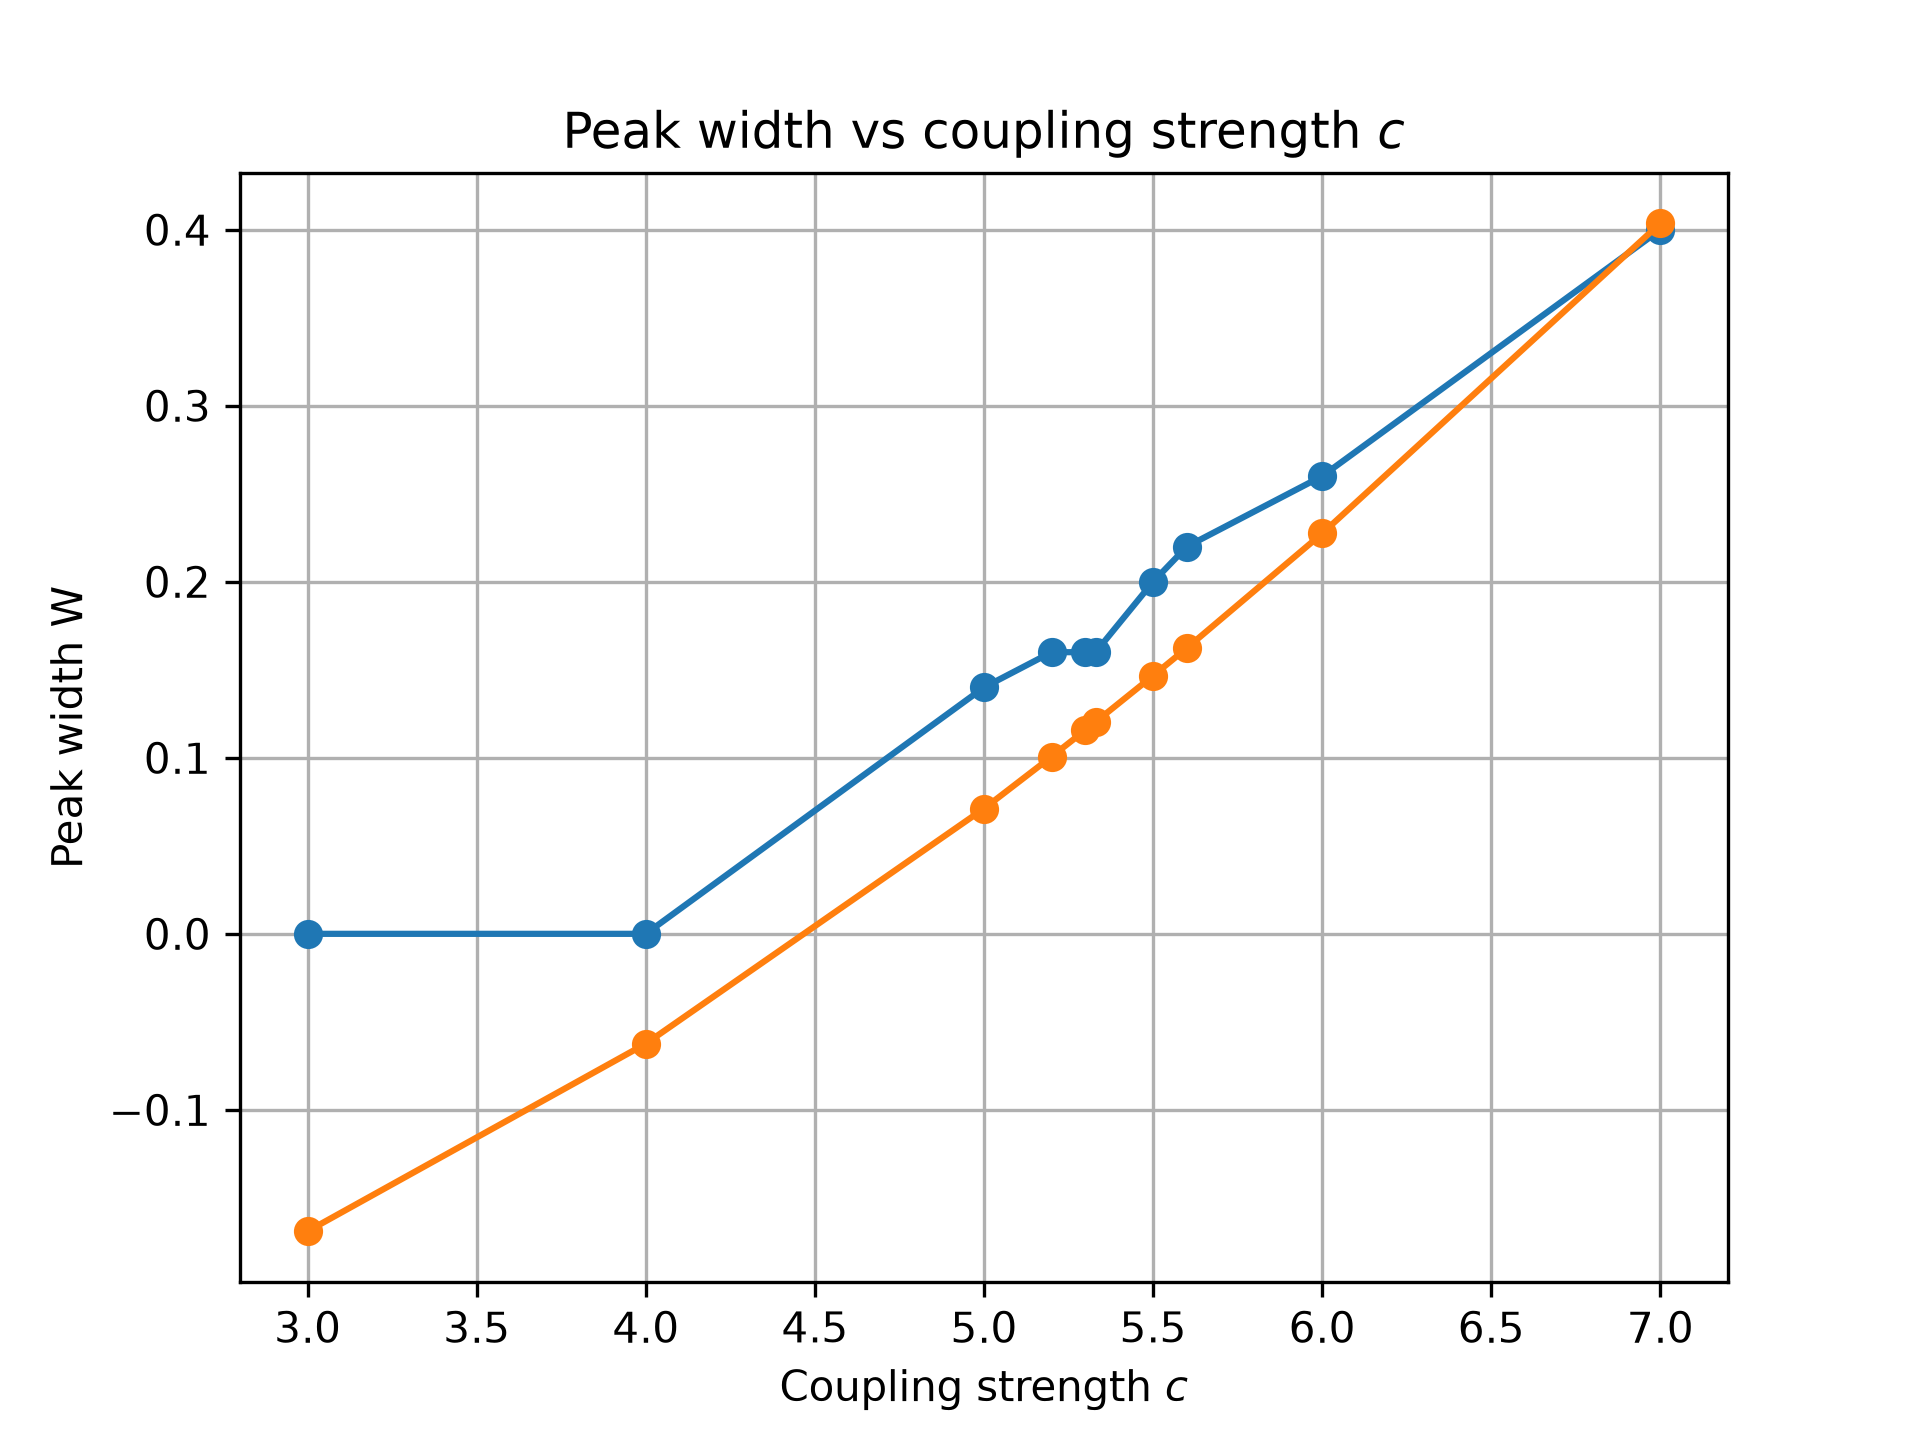
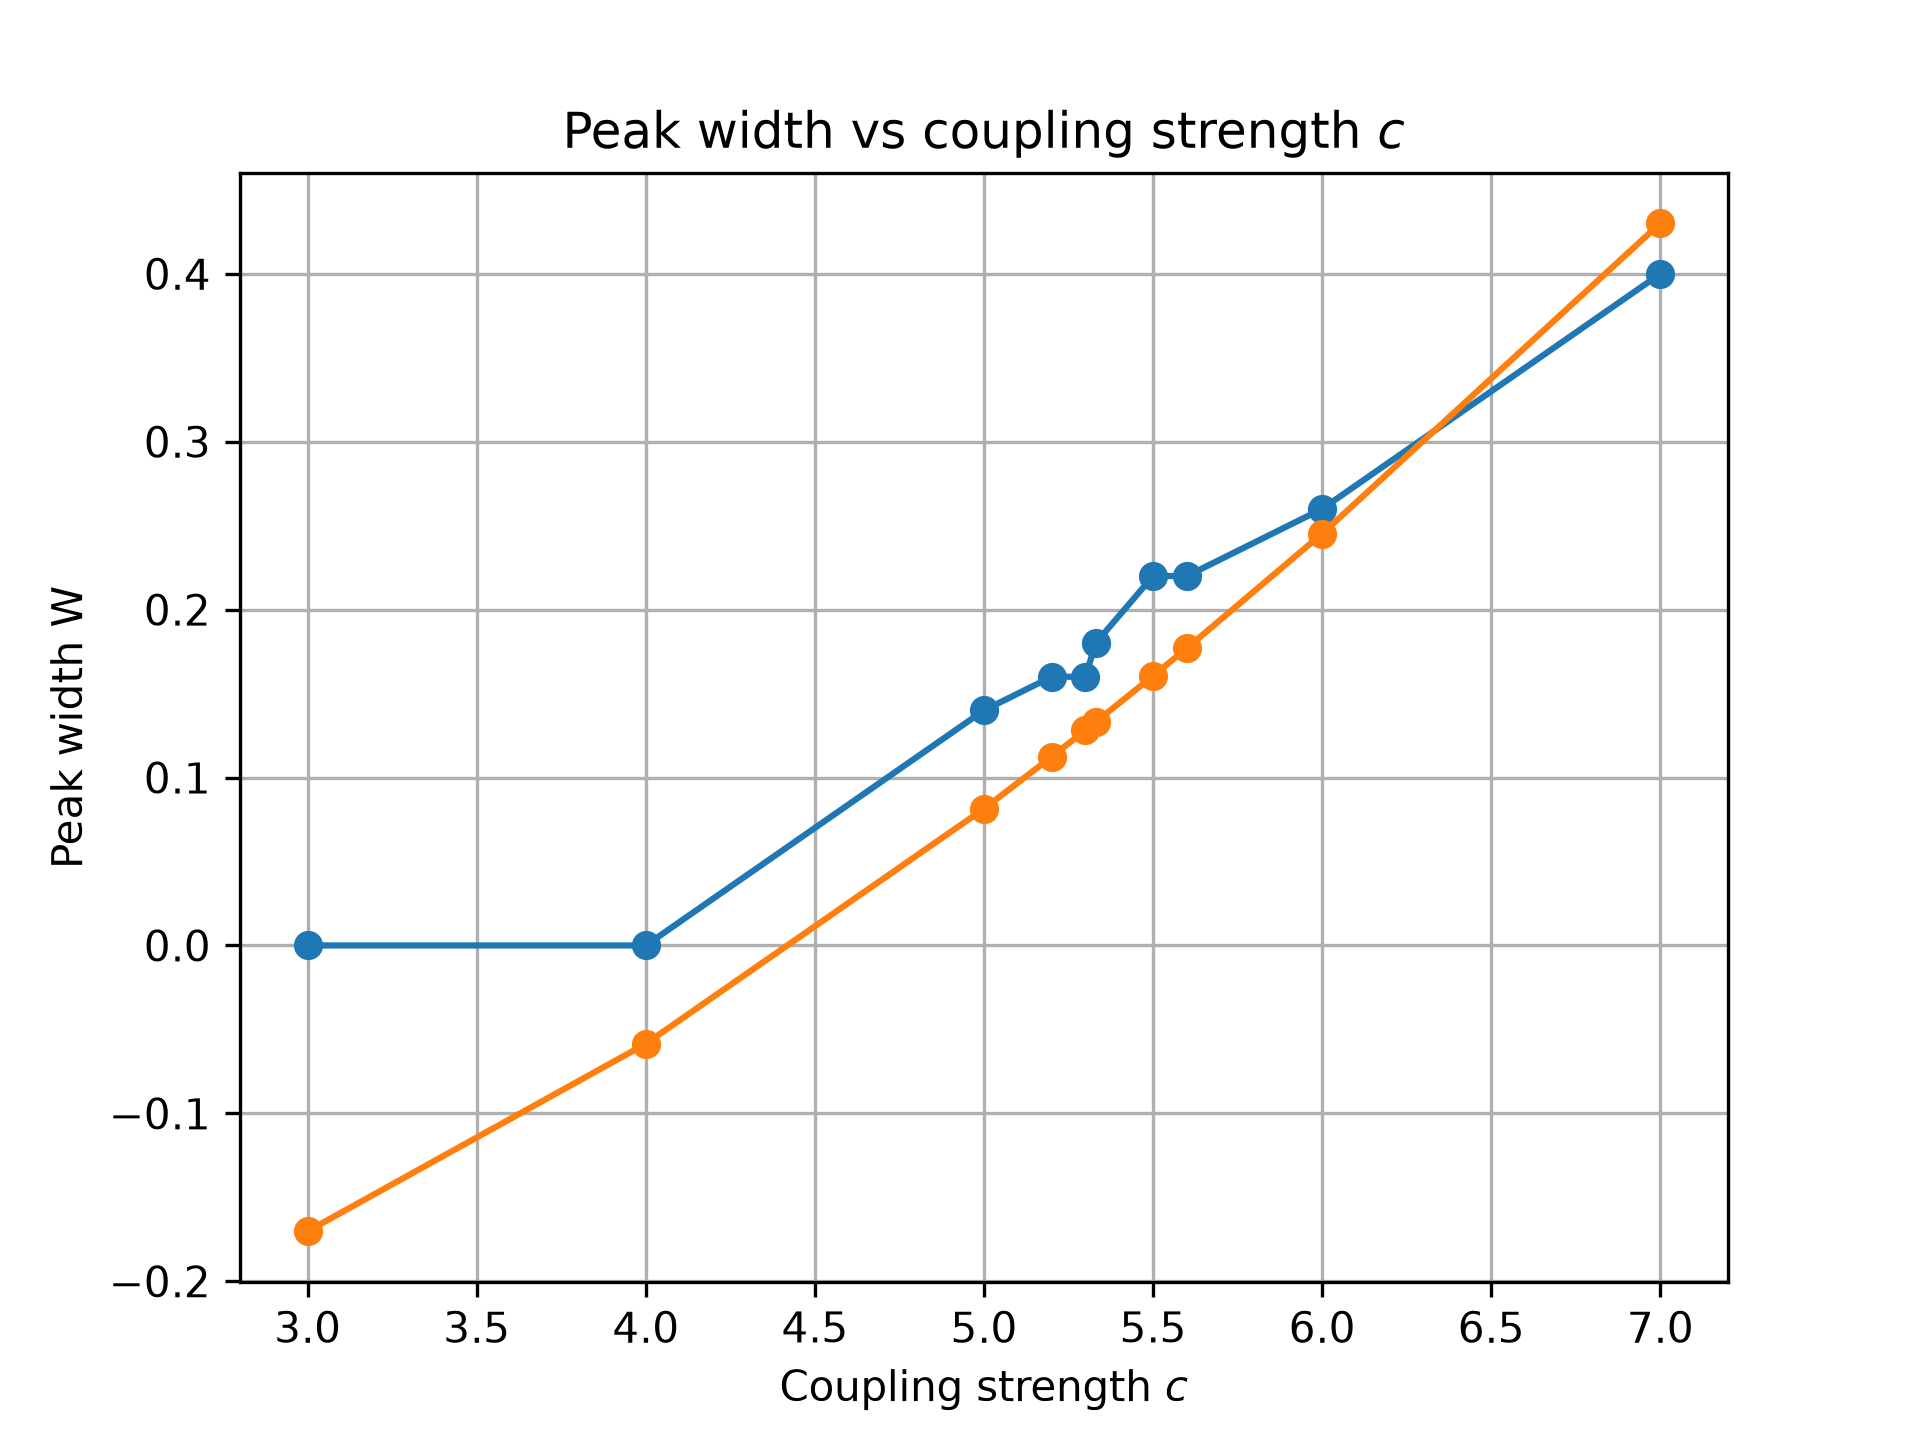
peak widths checkpoint

diff --git a/further_analysis.py b/further_analysis.py
@@ -6,7 +6,8 @@ BIN_WIDTH = 0.02
 PERFECT_ORDER = 50
 MAX_MID_WIDTH = 100
 
-def peak_width_analytical(c, low_level):
+
+def peak_width_analytical(c, low_level=0.103):
     h = low_level + 1 / (c * low_level)
     En = h * (1 + 4 * c * low_level**2)
     m = np.sinh((1 / 3) * np.arcsinh(3 * En * np.sqrt(3 * c))) / np.sqrt(3 * c)
@@ -34,9 +35,9 @@ def get_last_mean_densities(run_name, n_realizations, n_last_rows=10):
         "C_species": np.mean(last_densities[2::3], axis=0),
     }
     # densities = {
-    #     "A_species": last_densities[-6],
-    #     "B_species": last_densities[-5],
-    #     "C_species": last_densities[-4],
+    #     "A_species": last_densities[-3],
+    #     "B_species": last_densities[-2],
+    #     "C_species": last_densities[-1],
     # }
     # plt.plot(np.linspace(-1, 1, 100), densities["B_species"])
     # plt.show()
@@ -102,7 +103,7 @@ def main():
             f"nr100000_rs0_bins100_cnts-step1000"
         )
         print(f"Calculating run {run_name}")
-        densities = get_last_mean_densities(run_name, 100000)
+        densities = get_last_mean_densities(run_name, 100000, 70)
         mid_density = densities["B_species"]
         mid_densities.append(mid_density)
 
@@ -115,23 +116,23 @@ def main():
         if c_val not in [3, 4]:
             order = calculate_order_parameter(mid_density)
             peak_width = get_level_widths(mid_density)[0]
-            middle_width = get_level_widths(mid_density)[1]
             spreads = get_level_widths(mid_density)[3]
-            orders.append(order)
+            middle_width = get_level_widths(mid_density)[1]
             middle_widths.append(middle_width)
+            orders.append(order)
             peak_widths.append(peak_width)
             spreads_rows.append(spreads)
 
-            plt.plot(np.linspace(-1, 1, 94), spreads)
-            plt.title("Spreads")
-            plt.xlabel("Coupling strength $c$")
-            plt.ylabel("$spread$")
-            plt.grid(True)
-            plt.savefig("figures/spreads.png", dpi=300)
-            plt.clf()
+    plt.plot(np.linspace(-1, 1, 94), spreads_rows[-1])
+    plt.title("Spreads")
+    plt.xlabel("Coupling strength $c$")
+    plt.ylabel("$spread$")
+    plt.grid(True)
+    plt.savefig("figures/spreads.png", dpi=300)
+    plt.clf()
 
     plt.plot(c_vals, peak_widths, "-o")
-    w_analytical = [peak_width_analytical(c, 0.1) for c in c_vals]
+    w_analytical = [peak_width_analytical(c) for c in c_vals]
     plt.plot(c_vals, w_analytical, "-o")
     plt.title("Peak width vs coupling strength $c$")
     plt.xlabel("Coupling strength $c$")
